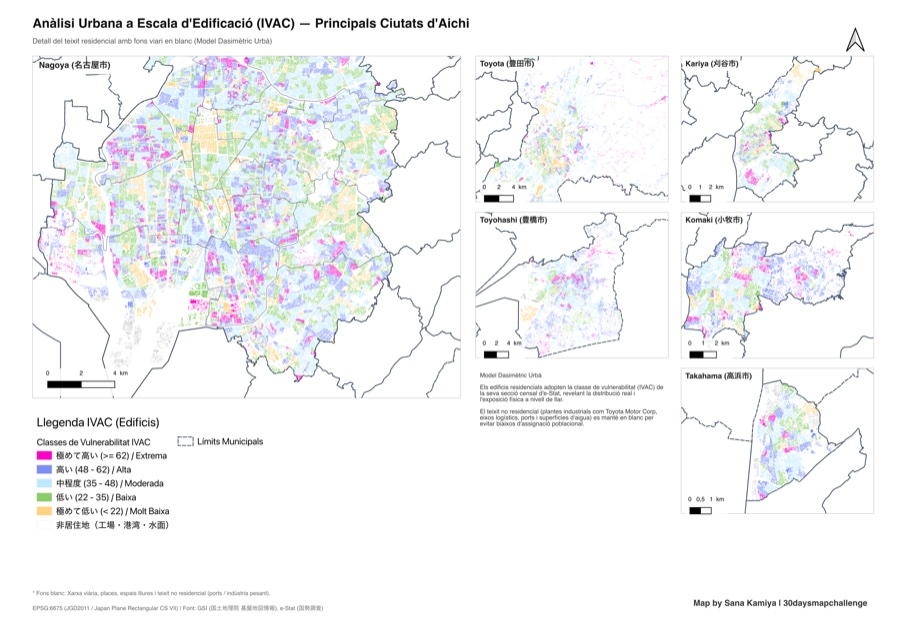
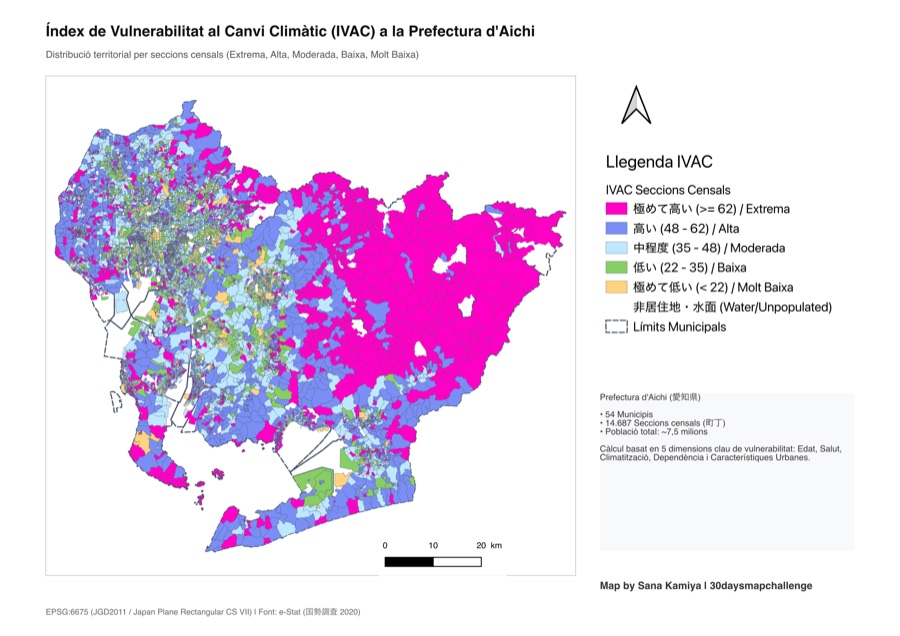
Update card thumbnail to Aichi census tracts IVAC map

diff --git a/portfolio.html b/portfolio.html
@@ -228,7 +228,7 @@
       <!-- Project: Climate Vulnerability IVAC Japan (Aichi) -->
       <article class="project-card sig clima urban">
         <div class="project-image">
-          <img src="images/projects/ivac-japan/ivac_japan_card_thumbnail.jpg" alt="Vulnerabilidad al Cambio Climático IVAC Japón Aichi">
+          <img src="images/projects/ivac-japan/ivac_japan_card_thumbnail.jpg?v=2" alt="Vulnerabilidad al Cambio Climático IVAC Aichi Seccions Censals">
         </div>
         <div class="project-info">
           <div class="project-card-badges">

diff --git a/index.html b/index.html
@@ -230,7 +230,7 @@
       <!-- Card: Climate Vulnerability IVAC Japan (Aichi) -->
       <article class="project-card sig clima urban">
         <div class="project-image">
-          <img src="images/projects/ivac-japan/ivac_japan_card_thumbnail.jpg" alt="Vulnerabilidad al Cambio Climático IVAC Japón Aichi">
+          <img src="images/projects/ivac-japan/ivac_japan_card_thumbnail.jpg?v=2" alt="Vulnerabilidad al Cambio Climático IVAC Aichi Seccions Censals">
         </div>
         <div class="project-info">
           <div class="project-card-badges">
